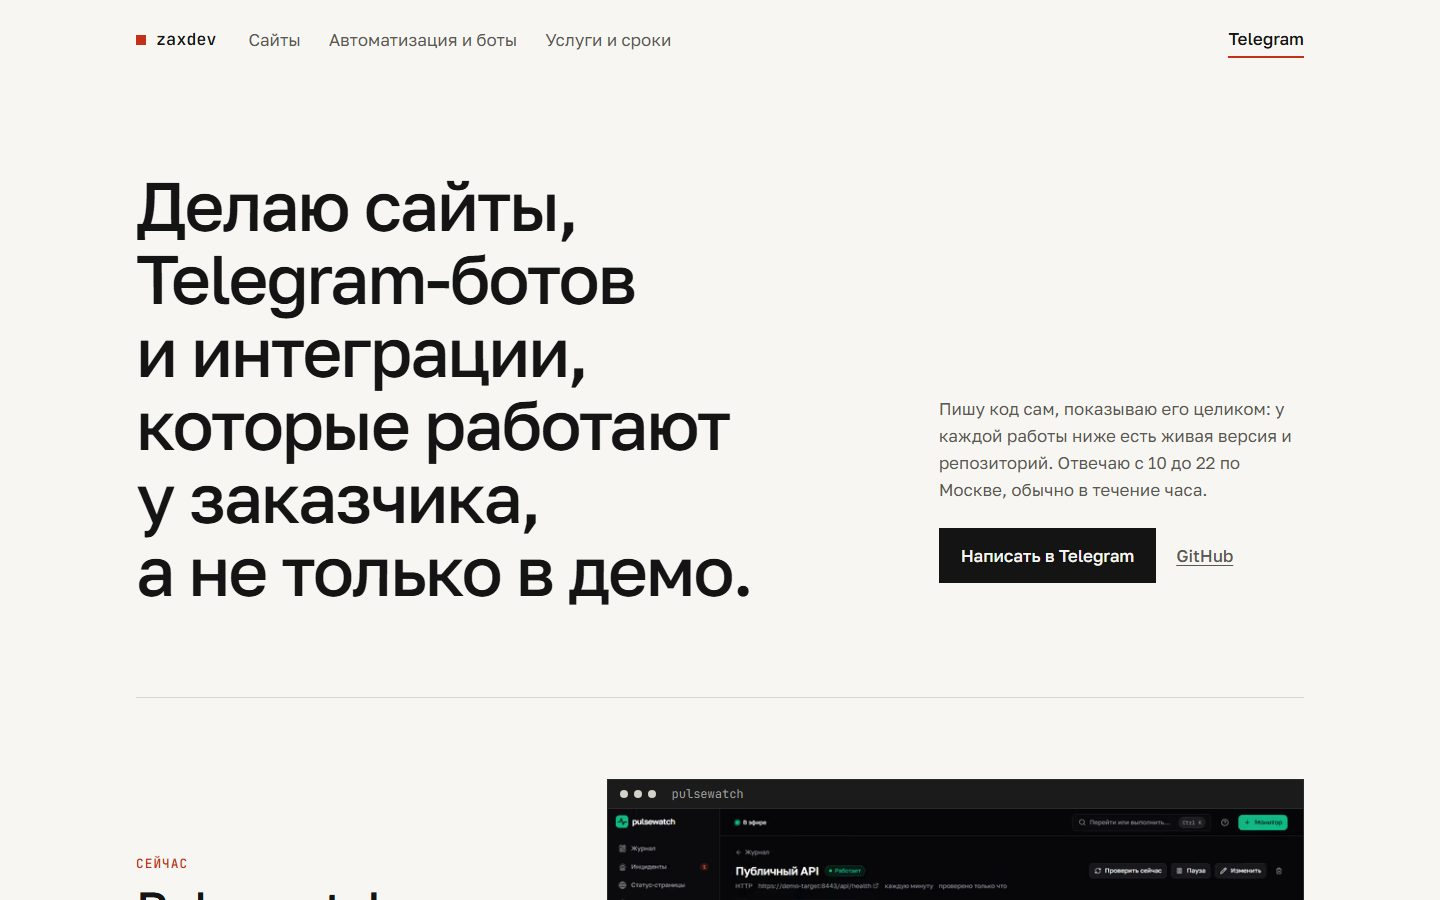
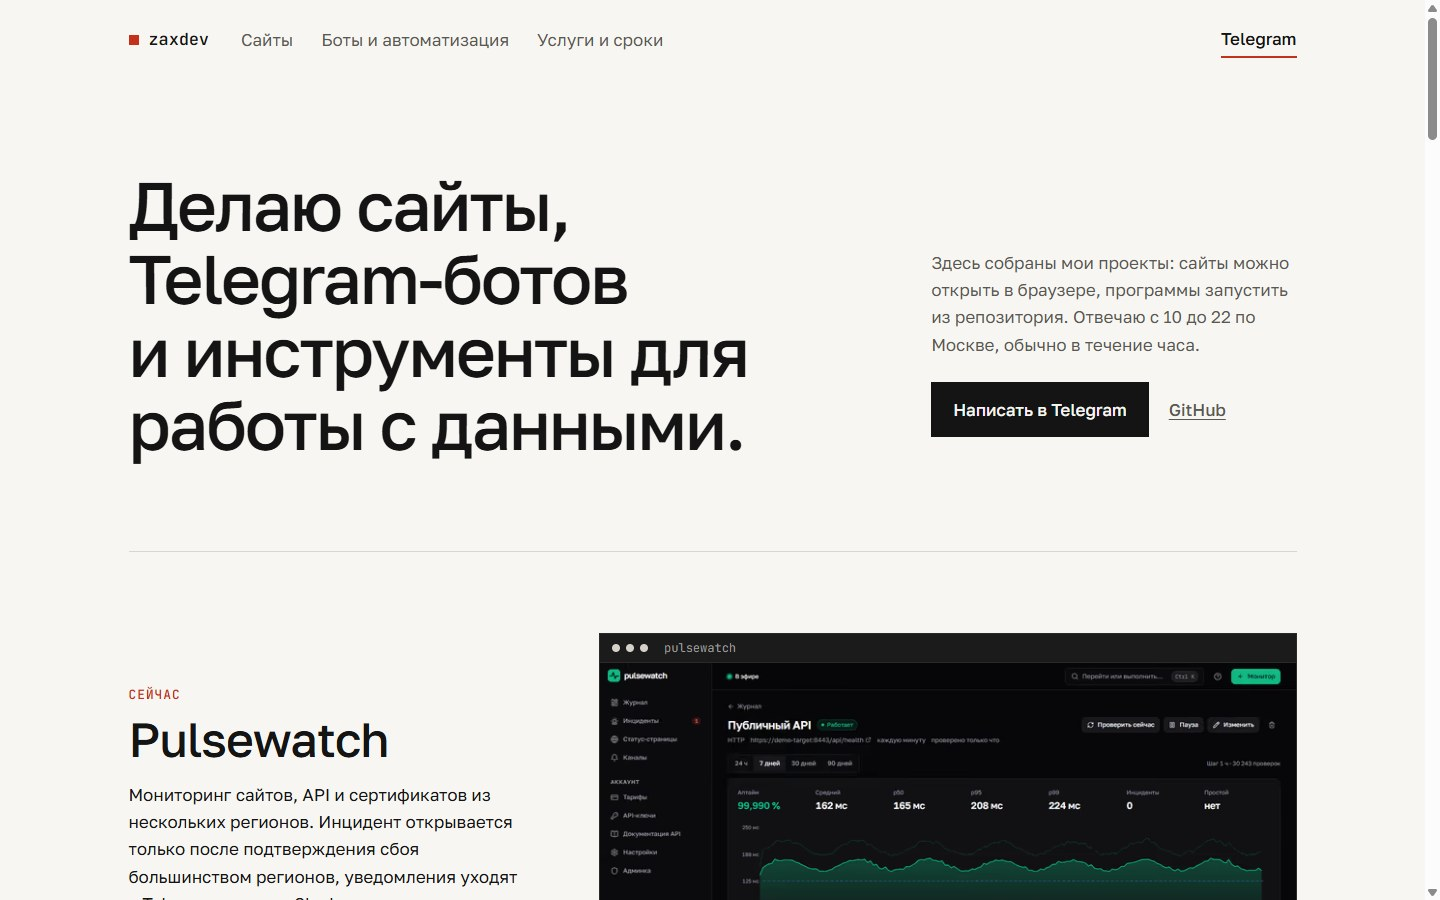
Clarify portfolio copy and link Pulsewatch source

diff --git a/index.html b/index.html
@@ -3,12 +3,12 @@
 <head>
   <meta charset="utf-8">
   <meta name="viewport" content="width=device-width, initial-scale=1">
-  <title>zaxdev — сайты, Telegram-боты, парсеры и автоматизация</title>
+  <title>zaxdev. Сайты, Telegram-боты и парсеры</title>
   <meta name="description" content="Делаю сайты, Telegram-ботов, парсеры цен и автоматизацию рутины. Работы с живыми демо и кодом на GitHub.">
   <link rel="canonical" href="https://hmsusbusas-png.github.io/zaxdev-portfolio/">
   <meta property="og:type" content="website">
   <meta property="og:locale" content="ru_RU">
-  <meta property="og:title" content="zaxdev — сайты, боты, парсеры, автоматизация">
+  <meta property="og:title" content="zaxdev. Сайты, боты и автоматизация">
   <meta property="og:description" content="Работы с живыми демо и кодом на GitHub.">
   <meta property="og:url" content="https://hmsusbusas-png.github.io/zaxdev-portfolio/">
   <meta property="og:image" content="https://hmsusbusas-png.github.io/zaxdev-portfolio/og.jpg">
@@ -35,9 +35,9 @@
 
   <main id="main">
     <section class="hero" aria-labelledby="hero-title">
-      <h1 id="hero-title">Делаю сайты, Telegram-ботов и&nbsp;парсеры, которые работают у&nbsp;заказчика, а&nbsp;не&nbsp;только в&nbsp;демо.</h1>
+      <h1 id="hero-title">Делаю сайты, Telegram-ботов и&nbsp;инструменты для работы с&nbsp;данными.</h1>
       <div class="hero__side">
-        <p>Пишу код сам, показываю его целиком: у каждой работы ниже есть живая версия и репозиторий. Отвечаю с 10 до 22 по Москве, обычно в течение часа.</p>
+        <p>Здесь собраны мои проекты: сайты можно открыть в браузере, программы запустить из репозитория. Отвечаю с 10 до 22 по Москве, обычно в течение часа.</p>
         <p class="hero__actions">
           <a class="button" href="https://t.me/lev_backend">Написать в Telegram</a>
           <a class="link" href="https://github.com/hmsusbusas-png">GitHub</a>
@@ -51,6 +51,7 @@
         <h2 id="now-title">Pulsewatch</h2>
         <p>Мониторинг сайтов, API и сертификатов из нескольких регионов. Инцидент открывается только после подтверждения сбоя большинством регионов, уведомления уходят в Telegram, почту и Slack, у каждого проекта есть публичная статус-страница.</p>
         <p class="now__stack">FastAPI · PostgreSQL · React · Docker</p>
+        <p><a class="link" href="https://github.com/hmsusbusas-png/pulsewatch">Код и запуск на GitHub</a></p>
       </div>
       <figure class="now__shot">
         <span class="work__bar" aria-hidden="true"><i></i><i></i><i></i><span>pulsewatch</span></span>
@@ -61,7 +62,7 @@
     <section class="works" id="raboty" aria-labelledby="works-title">
       <div class="section-head">
         <h2 id="works-title">Сайты</h2>
-        <p>Пять концептов для придуманных заказчиков, у каждого своё направление. Всё на HTML, CSS и немного JavaScript, Lighthouse 96–100.</p>
+        <p>Пять концептов для придуманных заказчиков, у каждого своё направление. Всё на HTML, CSS и немного JavaScript, Lighthouse 96-100.</p>
       </div>
       <article class="work">
         <a class="work__shot" href="https://hmsusbusas-png.github.io/marta-berg/" tabindex="-1" aria-hidden="true">
@@ -71,7 +72,7 @@
         <div class="work__text">
           <p class="work__kind">Сайт фотографа архитектуры</p>
           <h3>Марта Берг</h3>
-          <p>Три серии снимков Петербурга, подписи как в каталоге выставки, просмотр в полный размер. Интерфейса почти не видно, главное — кадры.</p>
+          <p>Три серии снимков Петербурга, подписи как в каталоге выставки, просмотр в полный размер. Крупные фотографии занимают большую часть страницы.</p>
           <p class="work__links"><a href="https://hmsusbusas-png.github.io/marta-berg/">Открыть сайт</a><a href="https://github.com/hmsusbusas-png/marta-berg">Код</a></p>
         </div>
       </article>
@@ -83,7 +84,7 @@
         <div class="work__text">
           <p class="work__kind">Лендинг кофейни</p>
           <h3>Утро</h3>
-          <p>Меню свёрстано как печатный лист, табличка с часами пишет, открыто ли сейчас, вместо виджета карт — нарисованная схема квартала.</p>
+          <p>Меню свёрстано как печатный лист, табличка с часами показывает, открыто ли сейчас. Маршрут нарисован на схеме квартала.</p>
           <p class="work__links"><a href="https://hmsusbusas-png.github.io/utro-coffee/">Открыть сайт</a><a href="https://github.com/hmsusbusas-png/utro-coffee">Код</a></p>
         </div>
       </article>
@@ -128,7 +129,7 @@
     <section class="auto" id="avtomatizaciya" aria-labelledby="auto-title">
       <div class="section-head">
         <h2 id="auto-title">Боты и автоматизация</h2>
-        <p>Программы, которые работают без присмотра: следят, собирают, раскладывают и пишут в Telegram, когда что-то случилось.</p>
+        <p>Три небольших инструмента для магазина и работы с файлами.</p>
       </div>
       <ol class="auto__list">
         <li>
@@ -152,12 +153,12 @@
     <section class="services" id="uslugi" aria-labelledby="services-title">
       <div class="section-head">
         <h2 id="services-title">Услуги и сроки</h2>
-        <p>Цену называю после того, как прочитаю задачу: она зависит от объёма, а не от названия услуги.</p>
+        <p>Прочитаю задачу, оценю объём работы и назову цену.</p>
       </div>
       <dl class="services__list">
-        <div><dt>Лендинг или сайт-визитка</dt><dd>Тексты, вёрстка под телефон, форма заявки, публикация</dd><dd class="services__time">1–2 недели</dd></div>
+        <div><dt>Лендинг или сайт-визитка</dt><dd>Тексты, вёрстка под телефон, форма заявки, публикация</dd><dd class="services__time">1-2 недели</dd></div>
         <div><dt>Telegram-бот</dt><dd>Заявки, каталог, оплата, уведомления, админка в самом боте</dd><dd class="services__time">от 5 дней</dd></div>
-        <div><dt>Парсер или мониторинг цен</dt><dd>Сбор данных с сайтов, выгрузка в Excel или Google Таблицы, уведомления</dd><dd class="services__time">3–7 дней</dd></div>
+        <div><dt>Парсер или мониторинг цен</dt><dd>Сбор данных с сайтов, выгрузка в Excel или Google Таблицы, уведомления</dd><dd class="services__time">3-7 дней</dd></div>
         <div><dt>Автоматизация рутины</dt><dd>Скрипты для отчётов, выгрузок и обработки файлов, интеграции через API</dd><dd class="services__time">от 3 дней</dd></div>
         <div><dt>Доработка готового проекта</dt><dd>Исправить ошибки, ускорить, перенести на новый хостинг</dd><dd class="services__time">по объёму</dd></div>
       </dl>

diff --git a/404.html b/404.html
@@ -3,7 +3,7 @@
 <head>
   <meta charset="utf-8">
   <meta name="viewport" content="width=device-width, initial-scale=1">
-  <title>404 — zaxdev</title>
+  <title>404. zaxdev</title>
   <meta name="robots" content="noindex">
   <link rel="icon" href="/zaxdev-portfolio/favicon.svg" type="image/svg+xml">
   <link rel="stylesheet" href="/zaxdev-portfolio/css/fonts.css">

diff --git a/README.md b/README.md
@@ -17,7 +17,7 @@ Personal portfolio: websites, Telegram bots, scrapers and automation.
 - Первый экран: чем занимаюсь, кнопка «Написать в Telegram», ссылка на GitHub.
 - «Сейчас»: pulsewatch, мониторинг сайтов, со скриншотом интерфейса.
 - Пять сайтов: крупное превью в рамке браузера, одна строка о том, чем сайт интересен, ссылки на живую версию и на код.
-- «Боты и автоматизация»: трекер цен, магазин в Telegram и сортировщик файлов, у каждого заголовок — задача, которую он решает.
+- «Боты и автоматизация»: трекер цен, магазин в Telegram и сортировщик файлов, у каждого в заголовке указана задача.
 - Услуги и сроки без цен, порядок работы, контакт.
 
 ## Как запустить
@@ -30,10 +30,10 @@ python -m http.server 8000
 
 ## Как устроено
 
-Один `index.html` и `css/style.css`, JavaScript нет. Шрифты Golos Text и JetBrains Mono локально в `fonts/`. Превью работ в `img/` — снимки первых экранов в AVIF и WebP, около 50 КБ каждое.
+Один `index.html` и `css/style.css`, JavaScript нет. Шрифты Golos Text и JetBrains Mono локально в `fonts/`. Превью работ в `img/` сняты с первых экранов в AVIF и WebP, около 50 КБ каждое.
 
 Lighthouse (мобильный профиль): 100 по всем четырём пунктам. axe и html-validate без ошибок.
 
 ## Лицензия
 
-Код — MIT, см. [LICENSE](LICENSE).
+Код распространяется по MIT, см. [LICENSE](LICENSE).
